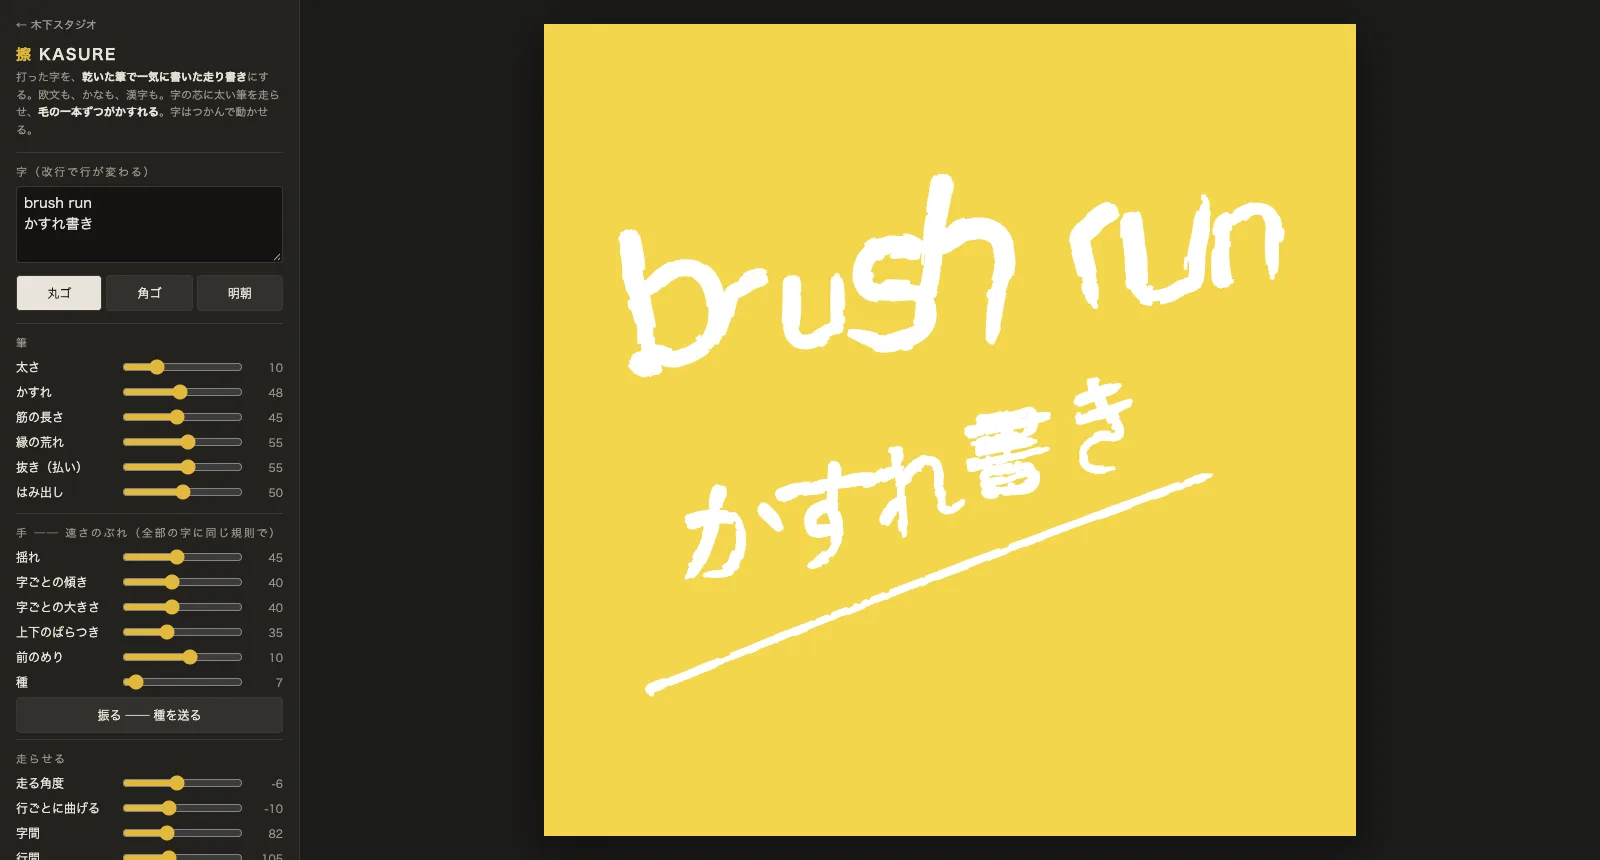
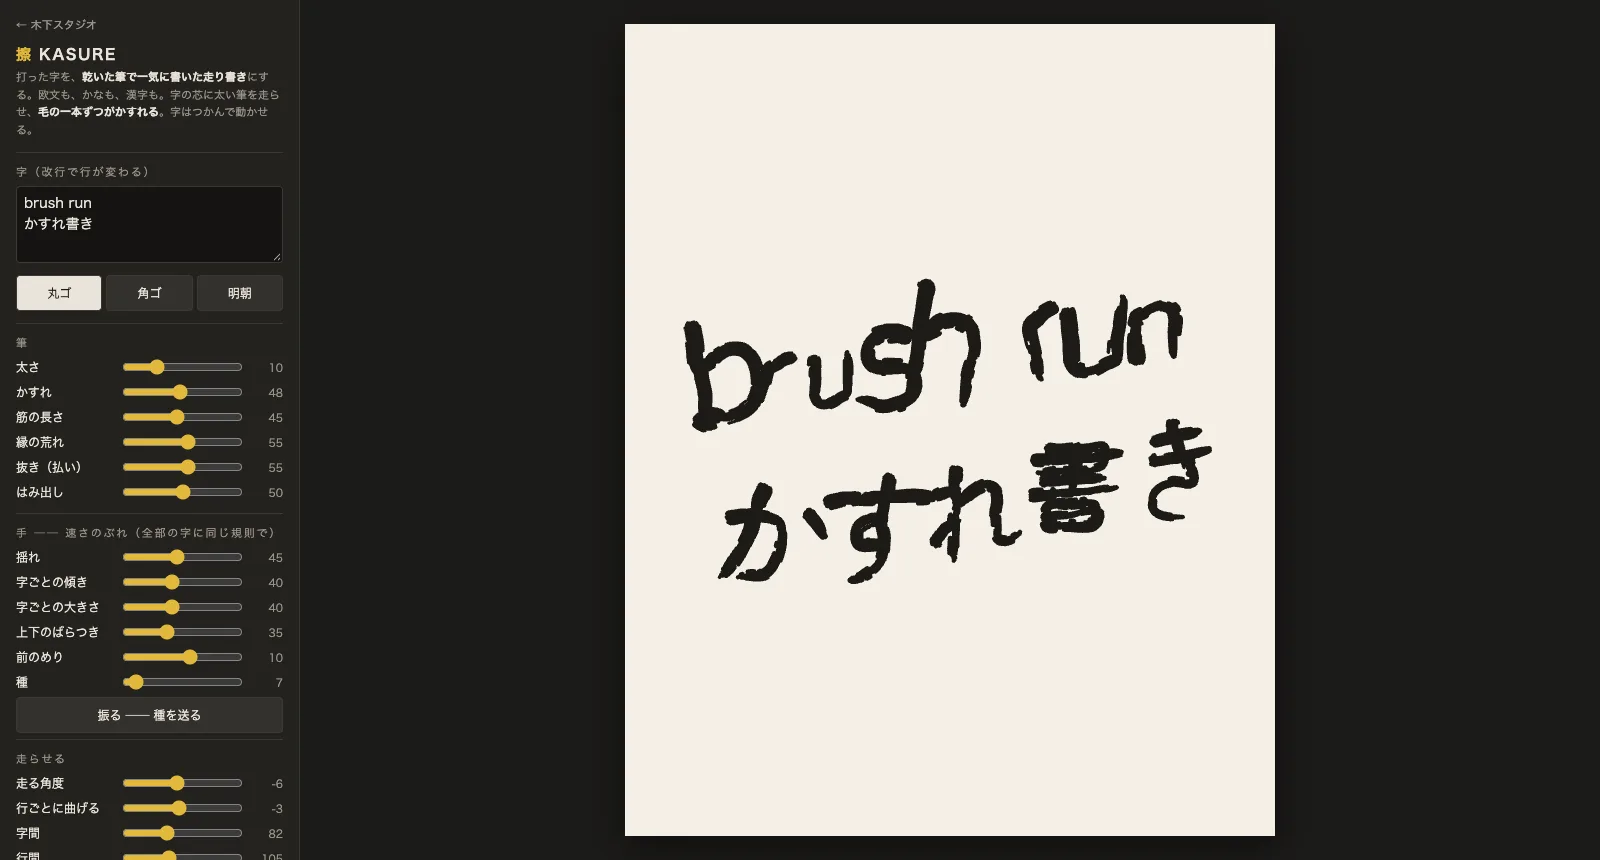
kasure: 既定を生成りに墨・勢いの線なし・行はほぼまっすぐに（見本と同じ見えを既定にしない）
Claude-Session: https://claude.ai/code/session_01TDfKT6hN3PTiUce4kfYuxn

diff --git a/kasure/index.html b/kasure/index.html
@@ -9,7 +9,7 @@
 <meta property="og:url" content="https://kinoshita.studio/kasure/">
 <link rel="preconnect" href="https://fonts.googleapis.com"><link rel="preconnect" href="https://fonts.gstatic.com" crossorigin>
 <link href="https://fonts.googleapis.com/css2?family=Zen+Maru+Gothic:wght@500&family=Zen+Kaku+Gothic+New:wght@500&family=Zen+Old+Mincho:wght@500&display=swap" rel="stylesheet">
-<!-- 2026-11-22 木下「道具で作りたい　英字と日本語も」（黄の地に白い、乾いた筆で一気に書いた欧文の題字を見て）
+<!-- 2026-11-22 木下「道具で作りたい　英字と日本語も」（見かけた筆の題字を見て）
      既存で近いのは 奔HON（骨から筆を走らせる）と 揮KI（手で書く丸い筆）と 刷HAKE（2色の刷毛）。
      🔴 HON で同じ字を書かせたら【細いペンの線】になった（書体から起こした骨は太さ 26・かすれ0 に落ちる／小文字は明朝の骨）。
      ⭐ この道具の芯＝【打った字の芯】に【毛の一本ずつがかすれる太い筆】を走らせる。
@@ -85,17 +85,17 @@ canvas#cv{box-shadow:0 10px 40px rgba(0,0,0,.45);cursor:grab;touch-action:none;d
 
   <div class="grp"><div class="t">走らせる</div>
     <label>走る角度<input type="range" id="ang" min="-60" max="60" value="-6"><span class="v"></span></label>
-    <label>行ごとに曲げる<input type="range" id="angStep" min="-40" max="40" value="-10"><span class="v"></span></label>
+    <label>行ごとに曲げる<input type="range" id="angStep" min="-40" max="40" value="-3"><span class="v"></span></label>
     <label>字間<input type="range" id="track" min="40" max="160" value="82"><span class="v"></span></label>
     <label>行間<input type="range" id="lead" min="50" max="200" value="105"><span class="v"></span></label>
-    <label>次の行の大きさ<input type="range" id="shrink" min="30" max="150" value="62"><span class="v"></span></label>
-    <label>行のずれ（右へ）<input type="range" id="indent" min="-100" max="100" value="18"><span class="v"></span></label>
+    <label>次の行の大きさ<input type="range" id="shrink" min="30" max="150" value="88"><span class="v"></span></label>
+    <label>行のずれ（右へ）<input type="range" id="indent" min="-100" max="100" value="6"><span class="v"></span></label>
     <label>余白<input type="range" id="margin" min="0" max="30" value="9"><span class="v"></span></label>
     <div class="seg" id="segRatio"><button data-v="1000,1250" class="on">4:5</button><button data-v="1000,1000">正方</button><button data-v="1000,1414">A 縦</button><button data-v="1600,900">16:9</button></div>
   </div>
 
   <div class="grp"><div class="t">勢いの線（最後の行の下に一本）</div>
-    <div class="seg" id="segSlash"><button data-v="1" class="on">引く</button><button data-v="0">引かない</button></div>
+    <div class="seg" id="segSlash"><button data-v="1">引く</button><button data-v="0" class="on">引かない</button></div>
     <label>角度<input type="range" id="sAng" min="-45" max="45" value="-5"><span class="v"></span></label>
     <label>長さ<input type="range" id="sLen" min="40" max="200" value="125"><span class="v"></span></label>
     <label>太さ<input type="range" id="sW" min="20" max="160" value="80"><span class="v"></span></label>
@@ -103,8 +103,8 @@ canvas#cv{box-shadow:0 10px 40px rgba(0,0,0,.45);cursor:grab;touch-action:none;d
 
   <div class="grp"><div class="t">色</div>
     <div class="sw" id="sw"></div>
-    <label class="c2">地<input type="color" id="bg" value="#f3d64b"></label>
-    <label class="c2">墨<input type="color" id="ink" value="#ffffff"></label>
+    <label class="c2">地<input type="color" id="bg" value="#f4efe4"></label>
+    <label class="c2">墨<input type="color" id="ink" value="#1c1a17"></label>
   </div>
 
   <div class="grp"><div class="t">字を動かす</div>
@@ -127,13 +127,13 @@ canvas#cv{box-shadow:0 10px 40px rgba(0,0,0,.45);cursor:grab;touch-action:none;d
 const $=id=>document.getElementById(id);
 const stat=s=>{$('stat').textContent=s};
 const IDS=['bw','dry','streak','rough','nuki','over','jit','jr','js','jy','slant','seed','ang','angStep','track','lead','shrink','indent','margin','sAng','sLen','sW'];
-const S={font:'maru',ratio:[1000,1250],slash:1,alpha:0,adj:{},paths:[]};
+const S={font:'maru',ratio:[1000,1250],slash:0,alpha:0,adj:{},paths:[]};
 const v=id=>+$(id).value;
 const FAM={maru:'"Zen Maru Gothic","Hiragino Maru Gothic ProN","Hiragino Sans",sans-serif',
            kaku:'"Zen Kaku Gothic New","Hiragino Sans","Hiragino Kaku Gothic ProN",sans-serif',
            min :'"Zen Old Mincho","Hiragino Mincho ProN",serif'};
-const SW=[['#f3d64b','#ffffff','黄に白'],['#f4efe4','#1c1a17','生成りに墨'],['#efe8da','#d23b26','生成りに朱'],['#1d2a44','#f3efe6','紺に白'],
-          ['#1a1918','#f2eee6','墨に白'],['#d94a2b','#fbf3e4','朱に白'],['#2f5a3c','#f1e9c8','緑に生成り'],['#ffffff','#111111','白に黒']];
+const SW=[['#f4efe4','#1c1a17','生成りに墨'],['#efe8da','#d23b26','生成りに朱'],['#1d2a44','#f3efe6','紺に白'],
+          ['#1a1918','#f2eee6','墨に白'],['#d94a2b','#fbf3e4','朱に白'],['#2f5a3c','#f1e9c8','緑に生成り'],['#f3d64b','#ffffff','黄に白'],['#ffffff','#111111','白に黒']];
 
 /* ── 乱数とゆらぎ（種で決まる＝同じ種なら同じ書き） ── */
 function rng(a){return function(){a|=0;a=a+0x6D2B79F5|0;let t=Math.imul(a^a>>>15,1|a);t=t+Math.imul(t^t>>>7,61|t)^t;return((t^t>>>14)>>>0)/4294967296}}
@@ -382,7 +382,7 @@ cv.addEventListener('dblclick',e=>{const[x,y]=atBoard(e),g=hit(x,y);if(g){delete
 
 /* ── 控え（JSON）── */
 function snapshot(){const o={tool:'kasure',v:1,text:$('txt').value,font:S.font,ratio:S.ratio,slash:S.slash,alpha:S.alpha,adj:S.adj,paths:S.paths,bg:$('bg').value,ink:$('ink').value,k:{}};IDS.forEach(id=>o.k[id]=v(id));return o}
-function load(o){if(!o||o.tool!=='kasure')throw 0;$('txt').value=o.text??'';S.font=o.font||'maru';S.ratio=o.ratio||[1000,1250];S.slash=o.slash??1;S.alpha=o.alpha||0;S.adj=o.adj||{};S.paths=o.paths||[];
+function load(o){if(!o||o.tool!=='kasure')throw 0;$('txt').value=o.text??'';S.font=o.font||'maru';S.ratio=o.ratio||[1000,1250];S.slash=o.slash??0;S.alpha=o.alpha||0;S.adj=o.adj||{};S.paths=o.paths||[];
   if(o.bg)$('bg').value=o.bg;if(o.ink)$('ink').value=o.ink;Object.entries(o.k||{}).forEach(([id,x])=>{if($(id)){$(id).value=x;const s=$(id).parentNode.querySelector('.v');if(s)s.textContent=x}});
   segSet('segFont',S.font);segSet('segRatio',S.ratio.join(','));segSet('segSlash',S.slash);segSet('segAlpha',S.alpha);markSw();skCache.clear();render()}
 let saveT=0;function save(){clearTimeout(saveT);saveT=setTimeout(()=>{try{localStorage.setItem('kasure-v1',JSON.stringify(snapshot()))}catch(_){}},400)}
